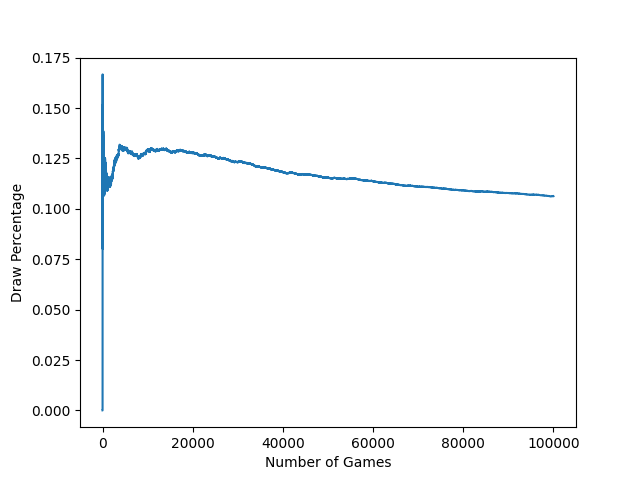
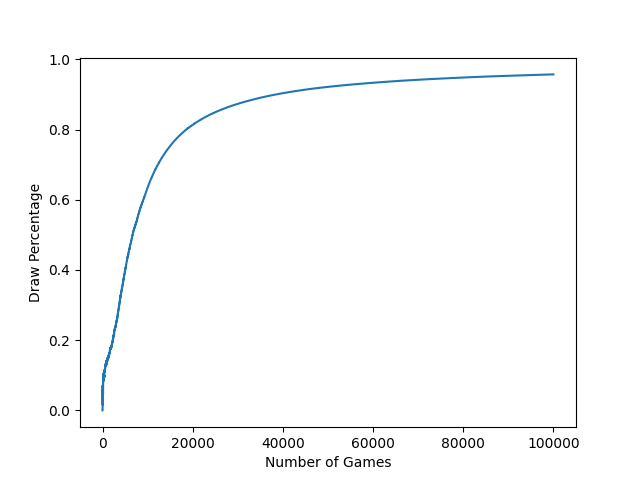
Trained using two Q Agents

diff --git a/src/Main.py b/src/Main.py
@@ -51,7 +51,7 @@ def play(env, players, display=False):
 if __name__ == '__main__':
 
 	TicENV = Environments.TicTacToeState
-	players = [Agents.QTable(0.999939), Agents.Random()]  # Agents.QTable(0.99995)
+	players = [Agents.QTable(0.99939), Agents.QTable(0.99939)]  # Agents.QTable(0.99995)
 
 	history = []
 
@@ -73,6 +73,12 @@ if __name__ == '__main__':
 		drawPercentage.append(n[1])
 		lossPercentage.append(n[2])
 
+
+	master = plt.figure()
+	plt.plot(history)
+	plt.xlabel("Number of Games")
+	plt.ylabel("Win Percentage")
+	plt.savefig("cumulative_accuracy.png")
 
 	win = plt.figure()
 	plt.plot(winPercentage)

diff --git a/README.md b/README.md
@@ -19,11 +19,10 @@ python3 Main.py
 # Test Results
 
 
-The following graphs show the Win, Loss, and Draw percentages over 100,000 games of the Tabular Q-Learning model playing against the Random model.
+The following graph shows the Win (blue), Loss (green), and Draw (orange) percentages over 100,000 games of two Tabular Q-Learning models playing against each other.
 
-![cumulative_wins](src/cumulative_wins.png)  
-Final Win Percentage: 73.213%  
-![cumulative_losses](src/cumulative_losses.png)  
-Final Loss Percentage: 16.164%  
-![cumulative_draws](src/cumulative_draws.png)  
-Final Draw Percentage: 10.623%
+![cumulative_wins](src/cumulative_accuracy.png)  
+Final Win Percentage: 1.882%  
+Final Loss Percentage: 2.407%  
+Final Draw Percentage: 95.711%
+
